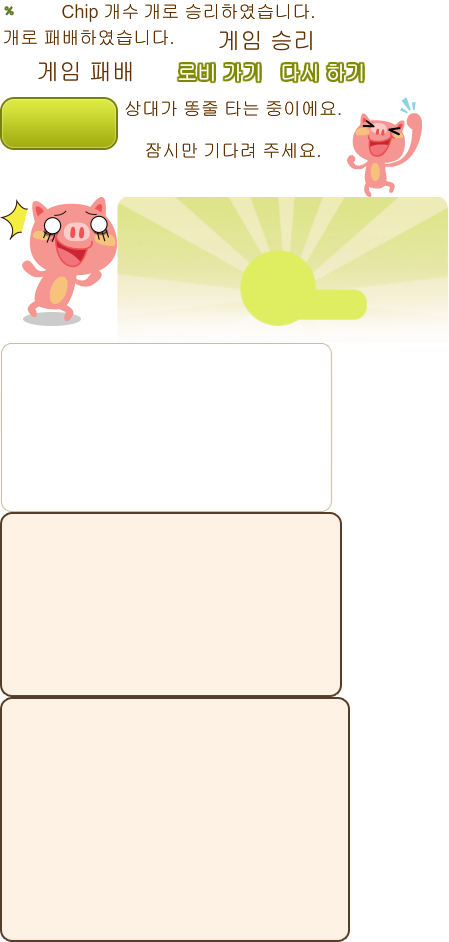
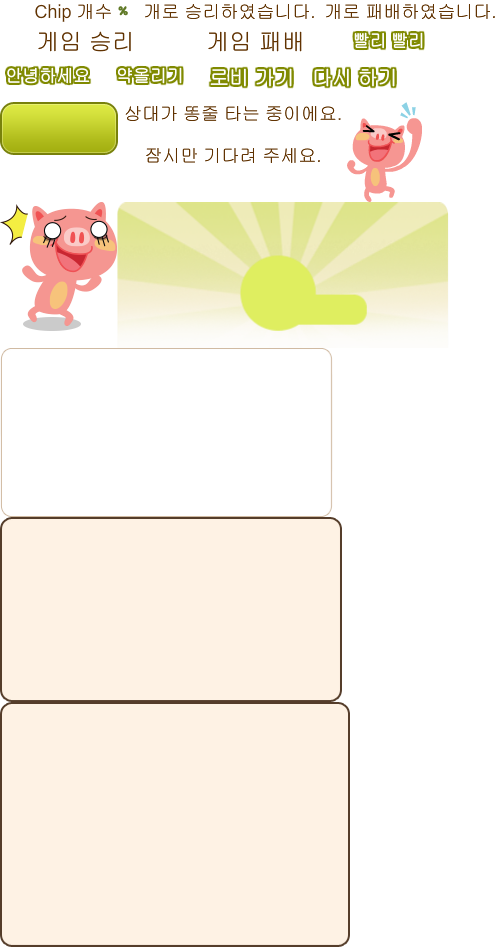
[오셀로 인게임] 리소스 추가

Changed region(s): [[0.0, 0.0, 0.9978, 1.0], [0.0, 0.9851, 0.0312, 1.0]]

diff --git a/othelomulti/WebContent/assets/canvas/InGameScene.js b/othelomulti/WebContent/assets/canvas/InGameScene.js
@@ -18,6 +18,8 @@ function InGameScene(aGame, aParent) {
 
 	this.game.add.sprite(0, 0, 'inGameUI', 'bgBig.png', groupUI);
 
+	var btnEmoticon = this.game.add.button(31, 856, 'PopupResult', null, this, null, 'btnGreen.png', null, null, groupUI);
+
 	var whiteChipSmall = this.game.add.sprite(231, 42, 'inGameUI', 'whiteChipSmall.png', groupUI);
 
 	var blackChipSmall = this.game.add.sprite(27, 42, 'inGameUI', 'blackChipSmall.png', groupUI);
@@ -27,6 +29,7 @@ function InGameScene(aGame, aParent) {
 	 // public fields
 
 	this.fGroupUI = groupUI;
+	this.fBtnEmoticon = btnEmoticon;
 	this.fWhiteChipSmall = whiteChipSmall;
 	this.fBlackChipSmall = blackChipSmall;
 	this.fGroupChip = groupChip;
